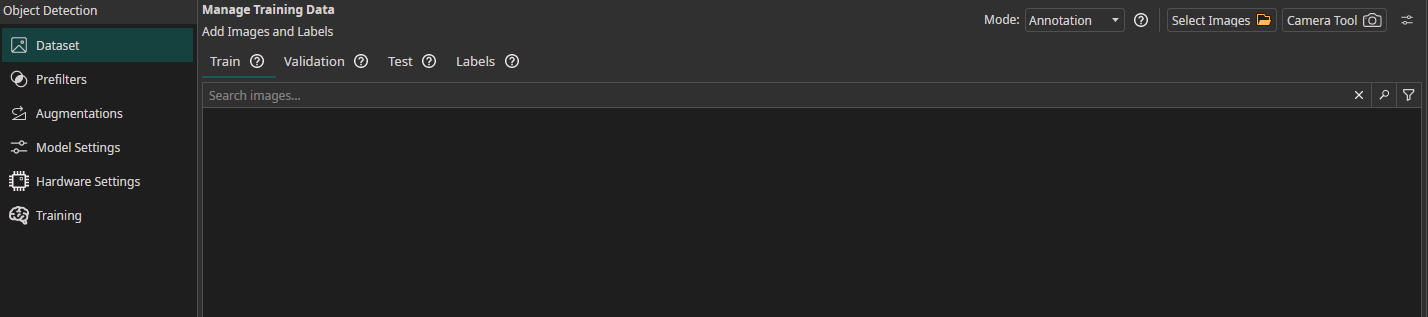
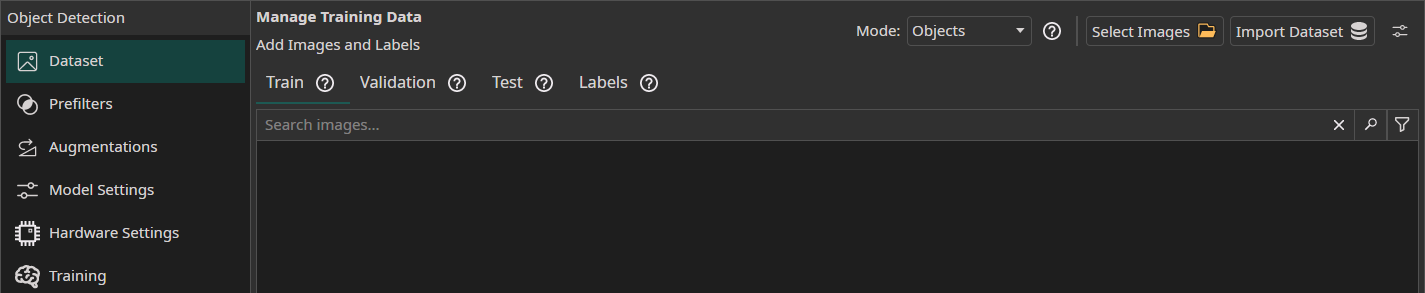
Working on getting started guide

diff --git a/docs/one-ai/01-get-started.md b/docs/one-ai/01-get-started.md
@@ -22,7 +22,7 @@ You can find more infomation about that [here](/docs/studio/tutorials/create-pro
 
 ## 2. Initialize the AI Project
 Make sure that the correct project is selected before you create a new AI project. <br/>
-Navigate to the **AI** tab and choose **“Open AI Generator”**.
+Navigate to the **AI** tab and choose **Open AI Generator**.
 
 ![AI Generator Modal](/img/ai/one_ai_plugin/ai_generator_modal.png)
 
@@ -34,15 +34,16 @@ Enter your **AI Project Name** and choose the **AI Type**.
 
 ## 3. Dataset Preparation - Build Your AI Foundation
 
-Before training your model, you need to load and organize your image data. A clean and well-labeled dataset is the foundation for accurate AI performance.
+Before you start training your model, you need to load and organize your image data. A clean and well-labeled dataset is the foundation for accurate AI performance.
 
 ### 3.1 Load Your Images
 Access the **Dataset** tab in your ONE AI workspace to prepare your visual training data.
 
 ![Training Data View](/img/ai/one_ai_plugin/training_data_view.png)
 
-- Use **“Select Images”** to load files directly from your device.  
-- Select **“Camera Tool”** to capture and load images directly within ONE AI for real-time data collection.  
+- Use **Select Images** to load unlabeled image data directly from your device.  
+- The **Import Dataset** feature can be used to load a labeled dataset.
+- You can use the **Camera Tool** in the **AI** tab to capture images directly within ONE AI for real-time data collection.  
 - Additional Settings - Use **Preview Size** to adjust how images display in your workspace for efficient labeling.
 
 ### 3.2 Choose Labeling Mode
